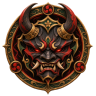
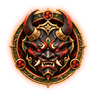
Badges: MYTHIC PIONEER animated, ONI lifted so it shows on a dark screen
MYTHIC PIONEER is now the supplied animated badge (background cut out, transparent animated WebP, 19 frames; make-animated-badge.mjs). ONI gets brightness, a thin gold rim and a soft glow from its own alpha (make-oni-badge.mjs) because the dark mask vanished into dark rows.

Claude-Session: https://claude.ai/code/session_01JsoQ3zRXc4VWUv2jRqbQAd

diff --git a/apps/web/src/features/achievements/registry.ts b/apps/web/src/features/achievements/registry.ts
@@ -92,8 +92,9 @@ export const ACHIEVEMENTS: Achievement[] = [
     blurb: 'A rare PINGO achievement.',
     tier: 'mythic',
     art: {
-      emblem: '/badges/mythic-pioneer-512.png',
-      crest: '/badges/mythic-crest-96.png',
+      // Animated WebP with real transparency, cut from the supplied GIF by `scripts/make-animated-badge.mjs`.
+      emblem: '/badges/mythic-pioneer-512.webp',
+      crest: '/badges/mythic-crest-96.webp',
     },
   },
 ];
